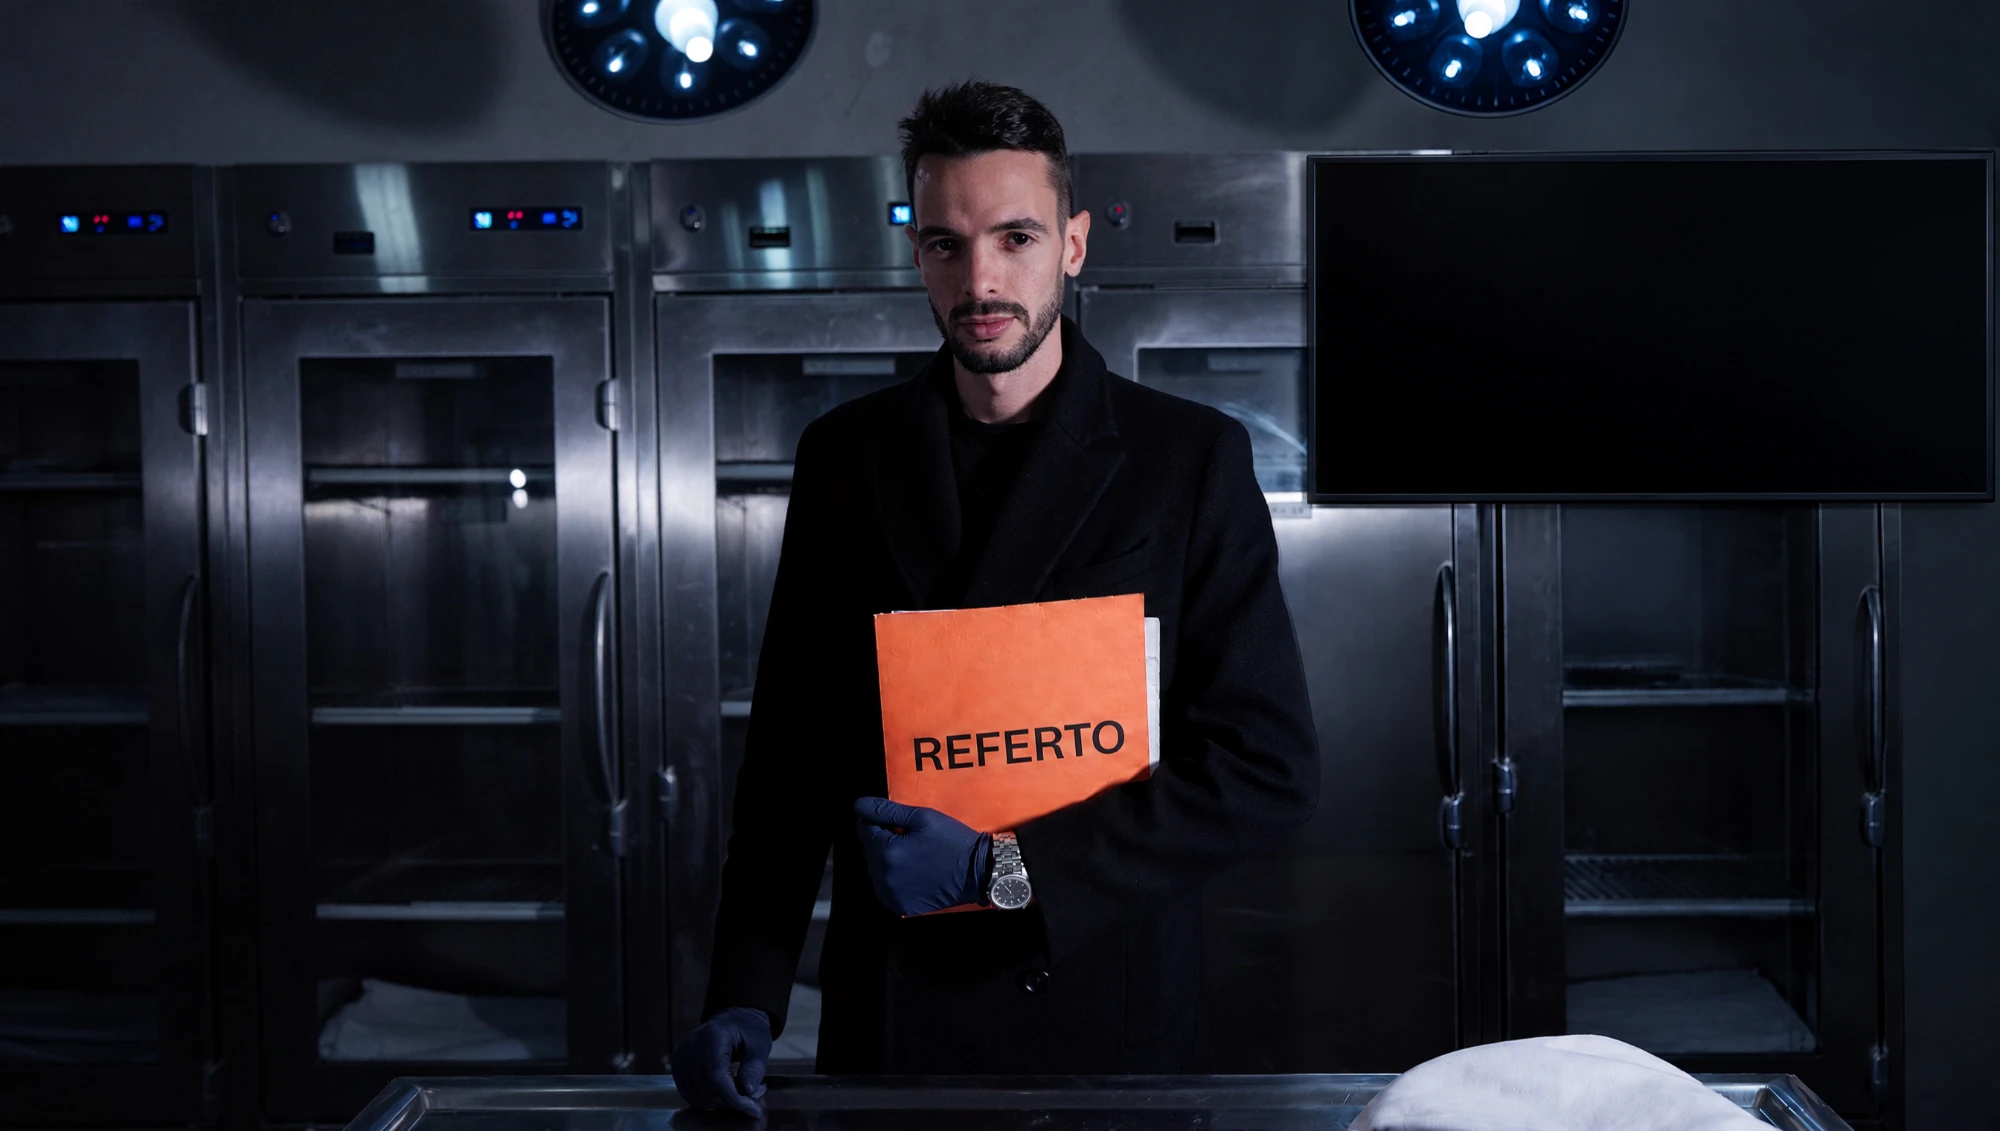
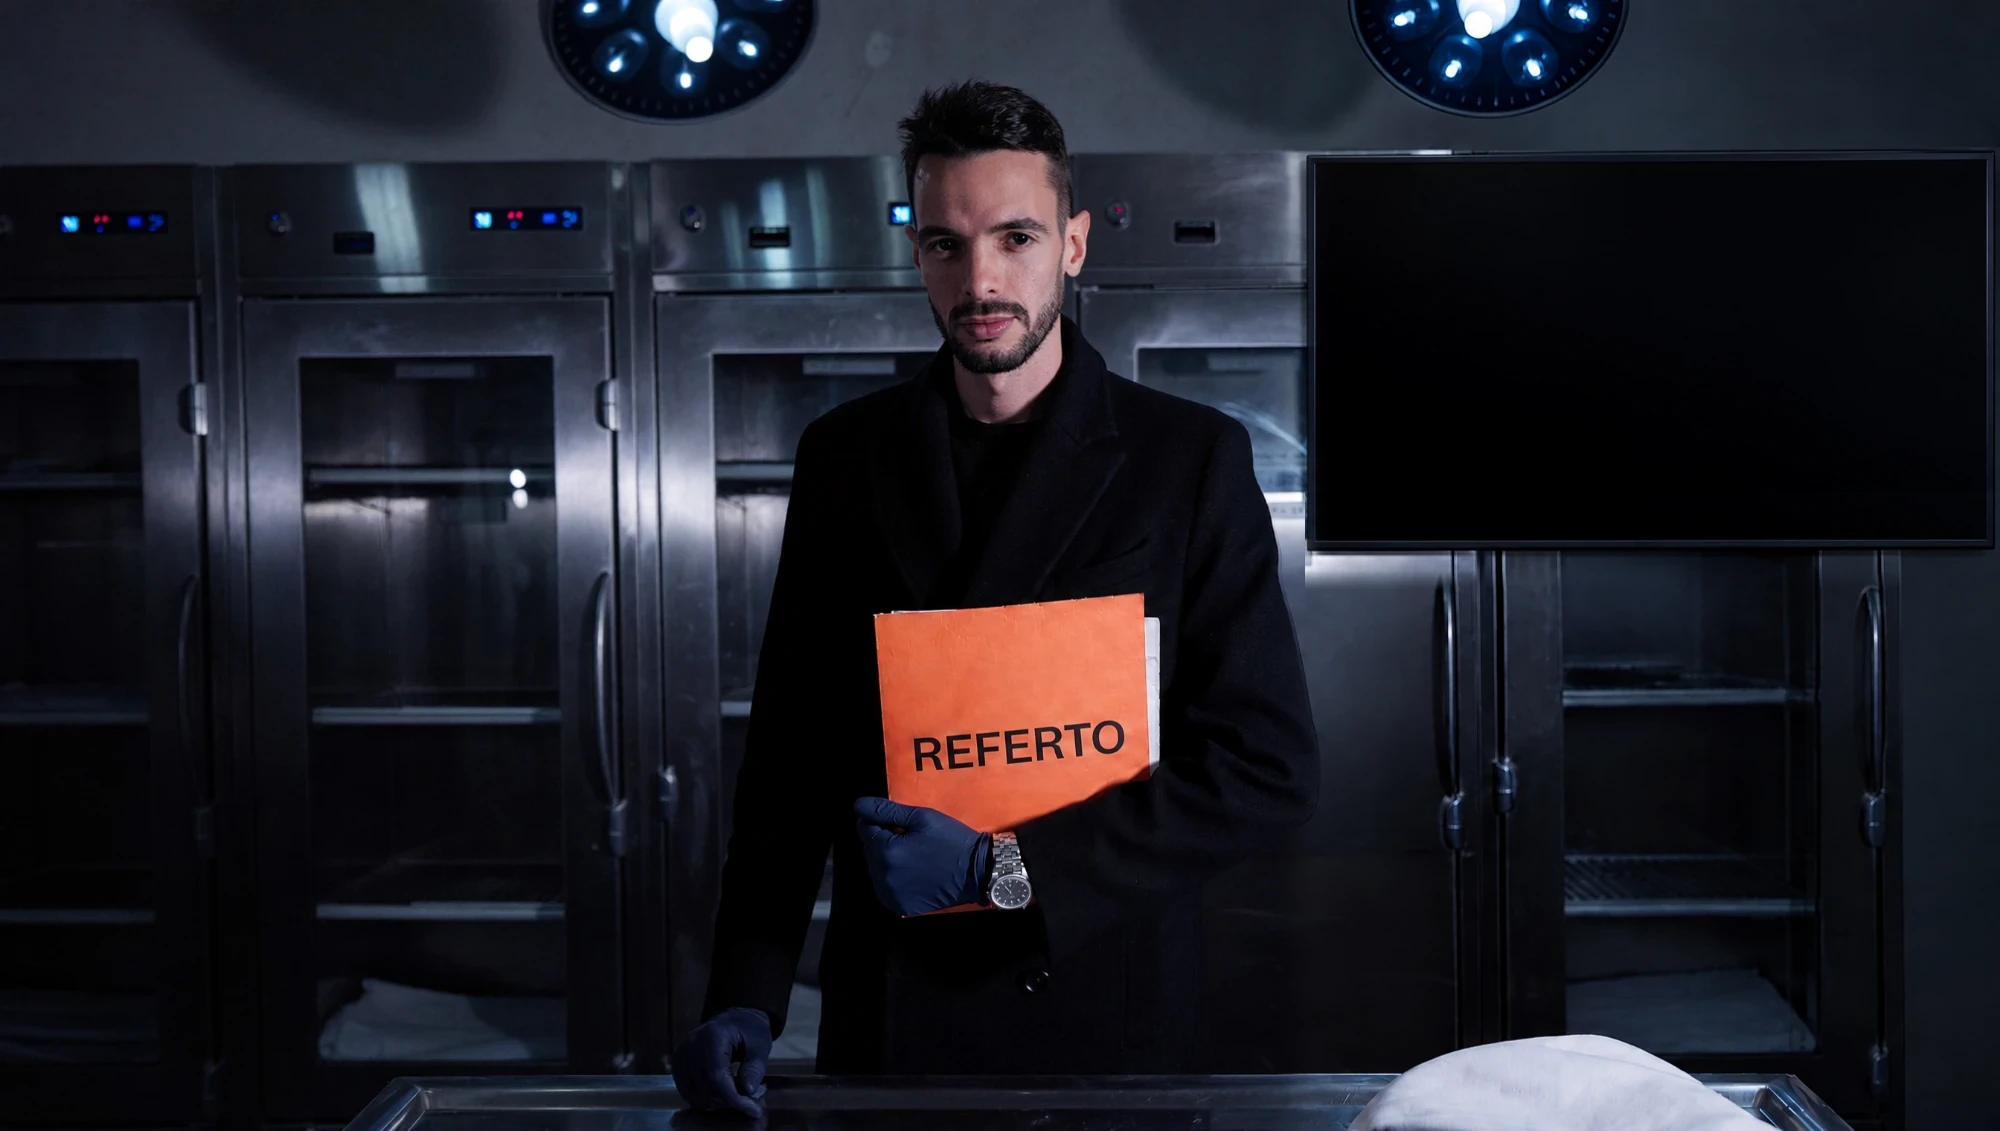
feat: TV della foto allungata a 16:9, video a filo senza bande; cinema più in alto
- la TV nella foto ora è 16:9 (schermo y 162–538): il video la riempie
  esattamente, senza bande nere e senza tagli
- modalità cinema: il video parte subito sotto le lettere del titolo,
  più grande, con il cartellino che resta dietro

Changed region(s): [[0.651, 0.4332, 1.0, 0.5261]]

diff --git a/index.html b/index.html
@@ -998,10 +998,10 @@ footer.pfoot .wrap{display:block!important;max-width:1320px}
 .consent-err{color:var(--acc);font-size:13px;font-weight:700;margin-top:-4px}
 
 /* ── hero con la TV (15 ott): foto a tutta larghezza dietro al cartellino, video vturb dentro lo schermo ──
-   schermo nella foto 2000×1131: x 1316–1985, y 161–492 */
+   schermo nella foto 2000×1131: x 1316–1985, y 162–538 (TV allungata a 16:9 perché il video la riempia senza bande né tagli) */
 /* margini a 0 (con auto un elemento più largo del contenitore parte da sinistra); spostata a sinistra del 17,3%
    così il gruppo Andrea + TV (x 700–1993 della foto) sta al centro dello schermo */
-.hero-tv{--fade-b:86%;position:relative;z-index:0;left:calc(min(100vw,1320px) * -.173);width:min(100vw,1320px);margin:calc(min(600px,48vw) * -.235) 0 0}
+.hero-tv{--fade-b:86%;position:relative;z-index:auto;left:calc(min(100vw,1320px) * -.173);width:min(100vw,1320px);margin:calc(min(600px,48vw) * -.235) 0 0}
 .tv-stage{position:relative;aspect-ratio:2000/1131}
 .tv-stage>picture{display:block}
 .tv-photo{position:absolute;inset:0;width:100%;height:100%;
@@ -1009,9 +1009,9 @@ footer.pfoot .wrap{display:block!important;max-width:1320px}
   -webkit-mask-composite:source-in;
           mask:linear-gradient(90deg,transparent 34%,#000 46%,#000 88%,transparent 100%),linear-gradient(180deg,transparent 0,#000 9%,#000 var(--fade-b),transparent 100%);
           mask-composite:intersect}
-.tv-screen{position:absolute;left:65.8%;top:14.2%;width:33.5%;height:29.4%;display:flex;align-items:center;justify-content:center;background:#000;overflow:hidden}
+.tv-screen{position:absolute;left:65.8%;top:14.32%;width:33.5%;height:33.33%;display:flex;align-items:center;justify-content:center;background:#000;overflow:hidden}
 /* il player è impaginato da vturb a 640×360 (misura da desktop, così i suoi riquadri restano in proporzione)
-   e scalato (--k, dallo script) per stare intero nello schermo: la TV è 2:1, quindi ai lati restano strisce nere */
+   e scalato (--k, dallo script) per stare nello schermo, che è 16:9 come il video */
 .tv-player{flex:none;width:640px;height:360px;transform:scale(var(--k,.6))}
 @media (max-width:760px){
   /* telefono: il video esce dalla foto, a tutta larghezza in una cornice da TV; sotto, Andrea */
@@ -1067,7 +1067,7 @@ footer.pfoot .wrap{display:block!important;max-width:1320px}
             mask:linear-gradient(90deg,transparent 34%,#000 46%,#000 88%,transparent 100%),linear-gradient(180deg,transparent 0,#000 9%,#000 60%,transparent 76%);
             mask-composite:intersect}
   /* la frase sta sotto la TV, larga quanto la TV */
-  .hero .promise{position:absolute;z-index:1;left:65.8%;top:46%;width:33.5%;max-width:none;margin:0;text-align:left;font-size:clamp(17px,1.55vw,24px);line-height:1.25}
+  .hero .promise{position:absolute;z-index:1;left:65.8%;top:50%;width:33.5%;max-width:none;margin:0;text-align:left;font-size:clamp(17px,1.55vw,24px);line-height:1.25}
   /* data e bottone sulla stessa riga */
   .hero-act{display:flex;align-items:center;justify-content:center;gap:18px;margin-top:6px}
   .hero .hero-act .event-row,.hero .hero-act .ctas{margin-top:0}
@@ -1078,8 +1078,8 @@ footer.pfoot .wrap{display:block!important;max-width:1320px}
   .hero-tv.is-cinema{overflow:visible}
   .is-cinema .tv-photo{opacity:0;transform:translateX(-18%)}
   .is-cinema .promise{animation:cine-out .6s var(--ease-out) forwards;pointer-events:none}
-  .is-cinema .tv-screen{z-index:2;transform:var(--cine);background-color:transparent;box-shadow:none}
-  .tv-close{display:block;position:absolute;z-index:3;width:44px;height:44px;border-radius:50%;border:1px solid rgba(255,255,255,.35);background:rgba(0,0,0,.6);cursor:pointer;
+  .is-cinema .tv-screen{z-index:3;transform:var(--cine);background-color:transparent;box-shadow:none}
+  .tv-close{display:block;position:absolute;z-index:4;width:44px;height:44px;border-radius:50%;border:1px solid rgba(255,255,255,.35);background:rgba(0,0,0,.6);cursor:pointer;
     opacity:0;visibility:hidden;transform:scale(.8);transition:opacity .3s var(--ease-out),transform .3s var(--ease-out),visibility 0s linear .3s}
   .tv-close::before,.tv-close::after{content:"";position:absolute;left:13px;right:13px;top:20px;height:2px;background:#fff;transform:rotate(45deg)}
   .tv-close::after{transform:rotate(-45deg)}
@@ -1738,8 +1738,7 @@ function tick(){
 }
 tick(); setInterval(tick, 30000);
 
-/* Video nella TV: il player vturb (640×360) si scala per stare intero nello schermo della TV, comandi compresi;
-   lo schermo è 2:1, quindi ai lati restano due strisce nere come lo schermo spento */
+/* Video nella TV: il player vturb (640×360) si scala per stare intero nello schermo della TV (16:9), comandi compresi */
 const tvScreen = document.querySelector(".tv-screen"), tvPlayer = tvScreen.querySelector(".tv-player");
 const fitTvPlayer = () => tvPlayer.style.setProperty("--k", Math.min(tvScreen.clientWidth / 640, tvScreen.clientHeight / 360));
 fitTvPlayer(); new ResizeObserver(fitTvPlayer).observe(tvScreen);
@@ -1750,9 +1749,9 @@ const heroTv = tvScreen.closest(".hero-tv"), heroLogo = document.querySelector("
 function placeCinema() {
   /* schermo calcolato dalla foto (non dal suo rettangolo, che durante il cinema è già trasformato) */
   const st = tvScreen.parentElement.getBoundingClientRect(), box = heroTv.getBoundingClientRect(), logo = heroLogo.getBoundingClientRect();
-  const s = { x: st.left + st.width * .658, y: st.top + st.height * .142, w: st.width * .335, h: st.height * .294 };
-  /* dal fondo del cartellino (95,5% dell'altezza del logo) fino a 40 px sopra data e bottone */
-  const top = Math.max(box.top, logo.top + logo.height * .955) + 10, bottom = box.bottom - 40;
+  const s = { x: st.left + st.width * .658, y: st.top + st.height * .1432, w: st.width * .335, h: st.height * .3333 };
+  /* dal fondo delle lettere del titolo (62% dell'altezza del logo; il cartellino resta dietro al video) fino a 40 px sopra data e bottone */
+  const top = Math.max(box.top, logo.top + logo.height * .62) + 10, bottom = box.bottom - 40;
   const w = Math.min(innerWidth * .72, 1000, (bottom - top) * s.w / s.h);
   tvScreen.style.setProperty("--cine", `translate(${innerWidth / 2 - (s.x + s.w / 2)}px, ${(top + bottom) / 2 - (s.y + s.h / 2)}px) scale(${w / s.w})`);
   /* la X accanto all'angolo in alto a destra del video (16:9, intero dentro lo schermo ingrandito) */
